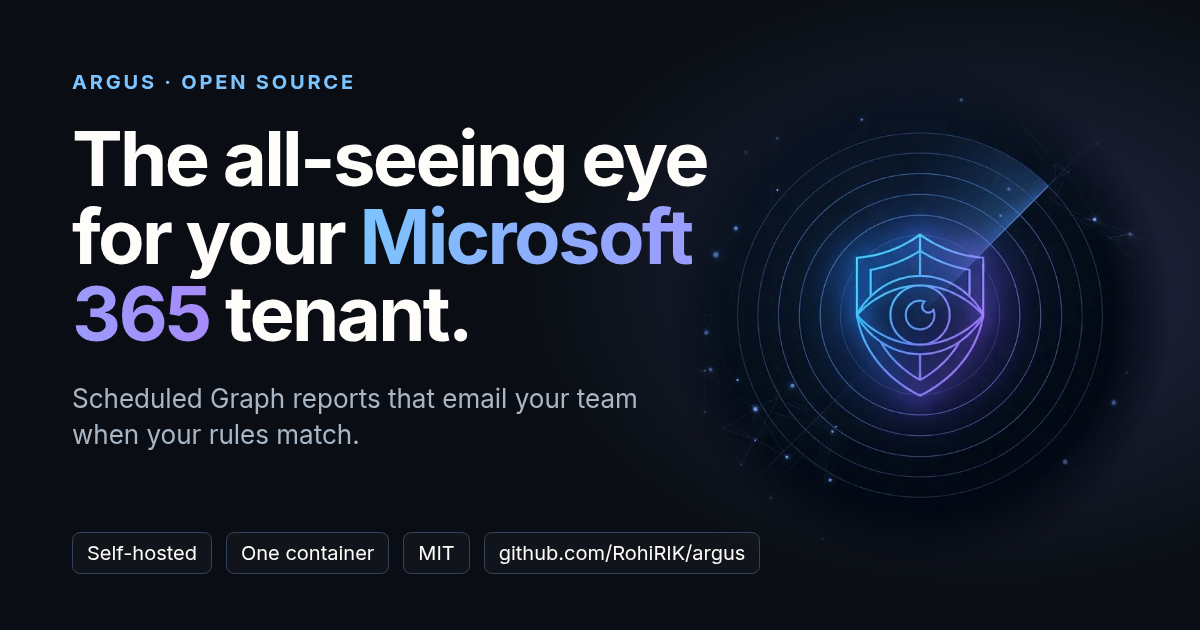
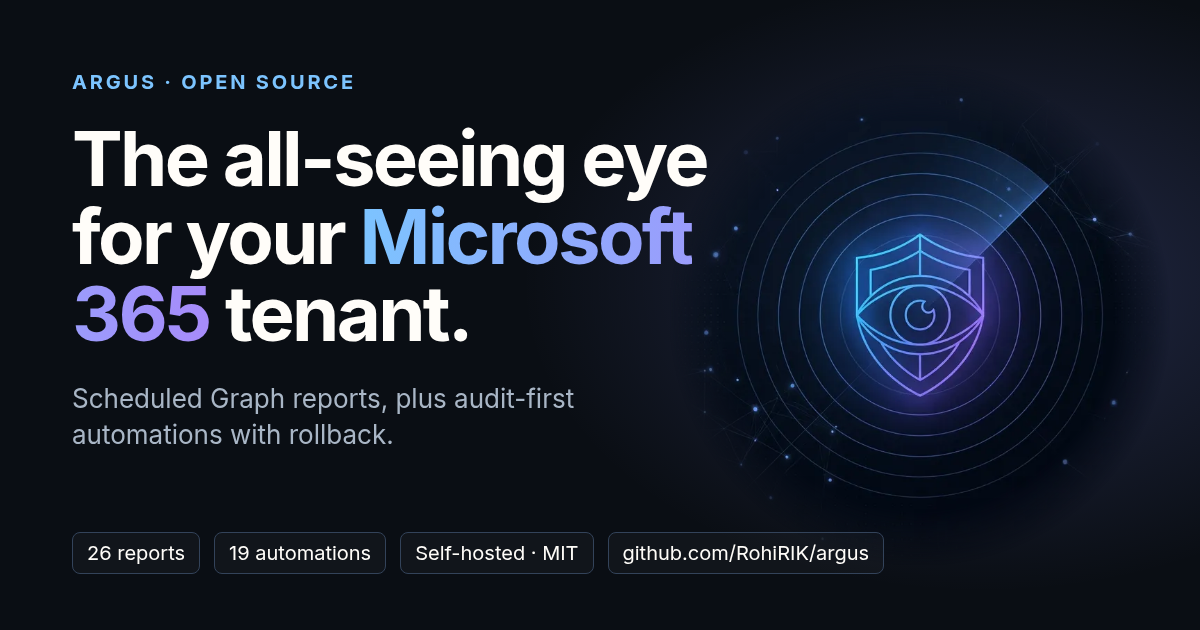
feat(site): update page to argus dev (5a35a11): automations, sign-in, HTTPS, opt-in group write
- New Automations section: Audit/Enforce/Roll back, 4 solution packs, safety guards
- Security: sign-in gate, HTTPS in container, separate write-capable automation app,
  reporting app 16 perms + opt-in Group.ReadWrite.All, automation app up to 26
- Quick start on dev channel (:dev image, https://localhost:8100), verified locally
- Fresh screenshots from dev; OG card updated

Changed region(s): [[0.0617, 0.8444, 0.74, 0.9048], [0.0617, 0.6635, 0.3083, 0.7238], [0.3083, 0.6032, 0.5242, 0.6635]]

diff --git a/index.html b/index.html
@@ -4,7 +4,7 @@
 <meta charset="utf-8">
 <meta name="viewport" content="width=device-width, initial-scale=1">
 <title>Argus: self-hosted Microsoft 365 reporting</title>
-<meta name="description" content="Scheduled Microsoft 365 reports that email your team when your rules match. Self-hosted, one Docker container, open source (MIT).">
+<meta name="description" content="Scheduled Microsoft 365 reports that email your team when your rules match, plus guarded automations that fix what they find. Self-hosted, open source (MIT).">
 <link rel="canonical" href="https://argus-m365.vercel.app/">
 <meta name="theme-color" content="#0a0e14">
 <meta name="color-scheme" content="dark">
@@ -12,14 +12,14 @@
 <meta property="og:site_name" content="Argus">
 <meta property="og:url" content="https://argus-m365.vercel.app/">
 <meta property="og:title" content="Argus: the all-seeing eye for your Microsoft 365 tenant">
-<meta property="og:description" content="Scheduled Microsoft 365 reports that email your team when your rules match. Self-hosted, one container, MIT.">
+<meta property="og:description" content="Scheduled Microsoft 365 reports and audit-first automations with rollback. Self-hosted, one container, MIT.">
 <meta property="og:image" content="https://argus-m365.vercel.app/og.png">
 <meta property="og:image:width" content="1200">
 <meta property="og:image:height" content="630">
 <meta property="og:image:alt" content="Argus: the all-seeing eye for your Microsoft 365 tenant">
 <meta name="twitter:card" content="summary_large_image">
 <meta name="twitter:title" content="Argus: the all-seeing eye for your Microsoft 365 tenant">
-<meta name="twitter:description" content="Scheduled Microsoft 365 reports that email your team when your rules match. Self-hosted, one container, MIT.">
+<meta name="twitter:description" content="Scheduled Microsoft 365 reports and audit-first automations with rollback. Self-hosted, one container, MIT.">
 <meta name="twitter:image" content="https://argus-m365.vercel.app/og.png">
 <link rel="icon" href="/favicon.svg" type="image/svg+xml">
 <link rel="preload" href="/fonts/inter-latin-400-normal.woff2" as="font" type="font/woff2" crossorigin>
@@ -41,6 +41,7 @@
     </button>
     <nav id="nav-links" class="nav-links" aria-label="Primary">
       <a href="#how">How it works</a>
+      <a href="#automations">Automations</a>
       <a href="#reports">Reports</a>
       <a href="#security">Security</a>
       <a href="#quick-start">Quick start</a>
@@ -56,7 +57,7 @@
     <div class="hero-copy">
       <p class="kicker">Open source · Self-hosted Microsoft 365 reporting</p>
       <h1>The all-seeing eye for your <span class="grad">Microsoft&nbsp;365</span> tenant.</h1>
-      <p class="lede">Argus runs scheduled Microsoft Graph reports (sign-in failures, inactive guests, expiring app secrets, license waste and more) and emails your team when your rules match. One Docker container on your own infrastructure.</p>
+      <p class="lede">Argus runs scheduled Microsoft Graph reports (sign-in failures, inactive guests, expiring app secrets, license waste and more) and emails your team when your rules match. When a report finds a problem, Argus automations can fix it: Audit first, Enforce when you say so, roll back if needed. One Docker container on your own infrastructure.</p>
       <div class="cta">
         <a class="btn btn-primary" href="https://github.com/RohiRIK/argus">
           <svg aria-hidden="true" viewBox="0 0 16 16" width="18" height="18"><path fill="currentColor" d="M8 0C3.58 0 0 3.58 0 8c0 3.54 2.29 6.530 5.47 7.590.4.07.55-.17.55-.38 0-.19-.01-.82-.01-1.49-2.01.37-2.53-.49-2.69-.94-.09-.23-.48-.94-.82-1.13-.28-.15-.68-.52-.01-.53.63-.01 1.08.58 1.23.82.72 1.21 1.87.87 2.33.66.07-.52.28-.87.51-1.07-1.78-.2-3.64-.89-3.640-3.95 0-.87.31-1.59.82-2.15-.08-.2-.36-1.02.08-2.12 0 0 .67-.21 2.2.82.64-.18 1.32-.27 2-.27.68 0 1.36.09 2 .27 1.53-1.04 2.2-.82 2.2-.82.44 1.1.16 1.92.08 2.12.51.56.82 1.27.82 2.15 0 3.07-1.87 3.75-3.65 3.95.29.25.54.73.54 1.48 0 1.07-.01 1.93-.01 2.2 0 .21.15.46.55.38A8.013 8.013 0 0016 8c0-4.42-3.58-8-8-8z"/></svg>
@@ -65,7 +66,7 @@
         <a class="btn btn-ghost" href="#quick-start">Quick start <span aria-hidden="true">→</span></a>
       </div>
       <ul class="trust" aria-label="Project facts">
-        <li>MIT licensed</li><li>One container</li><li>amd64 + arm64 images on GHCR</li><li>v0.4.0</li>
+        <li>MIT licensed</li><li>26 reports</li><li>19 automations</li><li>One container</li><li>amd64 + arm64 images</li>
       </ul>
     </div>
     <div class="hero-art">
@@ -74,9 +75,9 @@
   </div>
   <div class="wrap">
     <figure class="frame hero-shot">
-      <div class="frame-bar" aria-hidden="true"><i></i><i></i><i></i><span>localhost:8100/catalog</span></div>
-      <img src="/assets/shot-catalog-dark.webp" alt="Argus report catalog: report cards with category badges, schedule, baseline and a Read-only marker" width="1440" height="900">
-      <figcaption>Report catalog: search, filter by category and maturity, see required permissions.</figcaption>
+      <div class="frame-bar" aria-hidden="true"><i></i><i></i><i></i><span>https://localhost:8100/catalog</span></div>
+      <img src="/assets/shot-catalog.webp" alt="Argus catalog: 45 items, 26 read-only reports and 19 automations, shown as report packs and automation packs" width="1440" height="730">
+      <figcaption>One catalog: 26 read-only reports and 19 automations, grouped into solution packs.</figcaption>
     </figure>
   </div>
 </section>
@@ -97,8 +98,8 @@
       </article>
       <article class="card">
         <span class="num" aria-hidden="true">03</span>
-        <h3>Scripts don't keep history.</h3>
-        <p>Without a record of past runs you can't tell what's new, what changed, or whether last night's job ran at all.</p>
+        <h3>Fixing it is a one-off script with no undo.</h3>
+        <p>Disabling stale guests or reclaiming licences usually means a hand-run script: no dry run, no change limit, and no record of what it changed.</p>
       </article>
     </div>
   </div>
@@ -106,7 +107,7 @@
 
 <section class="section alt" id="how" aria-labelledby="how-h">
   <div class="wrap">
-    <p class="eyebrow">How it works</p>
+    <p class="eyebrow">How reports work</p>
     <h2 id="how-h" class="h2">Five stages, every run</h2>
     <p class="intro">Argus follows a Jenkins-style model: <strong>Catalog → Jobs → Executions → Logs</strong>. Each scheduled run goes through the same pipeline.</p>
     <ol class="pipeline">
@@ -119,33 +120,66 @@
   </div>
 </section>
 
-<section class="section" aria-labelledby="features-h">
+
+<section class="section" id="automations" aria-labelledby="auto-h">
+  <div class="wrap">
+    <p class="eyebrow">Automations <span class="badge-new">New</span></p>
+    <h2 id="auto-h" class="h2">Find it, then fix it, with guardrails</h2>
+    <p class="intro">19 built-in automations act on what the reports find. They run through a <strong>separate, write-capable Entra app</strong>, so the reporting app never changes your tenant.</p>
+    <ol class="modes">
+      <li class="mode"><span class="mode-k">1</span><h3>Audit</h3><p>Every new policy starts here. A read-only what-if: the engine rejects any write, and the run lists exactly what would change.</p></li>
+      <li class="mode"><span class="mode-k">2</span><h3>Enforce</h3><p>Only after a finished audit of the current settings and an explicit confirmation. <em>Max changes per run</em> halts a run that would change too much.</p></li>
+      <li class="mode"><span class="mode-k">3</span><h3>Roll back</h3><p>Each change stores its before and after state. Reversible changes undo in one click; the few that can't (Intune retire, expired-secret removal) are marked.</p></li>
+    </ol>
+    <div class="auto-shots">
+      <figure class="frame">
+        <img src="/assets/shot-automations.webp" alt="Argus catalog filtered to automations: cards with risk level, schedule, Starts in Audit and Makes changes markers" width="1440" height="900" loading="lazy" decoding="async">
+        <figcaption>Each automation shows its risk, schedule and the report it builds on.</figcaption>
+      </figure>
+      <figure class="frame">
+        <img src="/assets/shot-automation-detail.webp" alt="Automation detail: Break-Glass Conditional Access Exclusion Guardrail with its required write permissions and parameters" width="508" height="900" loading="lazy" decoding="async">
+        <figcaption>Exact Graph permissions per automation.</figcaption>
+      </figure>
+    </div>
+    <h3 class="sub-h">Solution packs</h3>
+    <div class="packs">
+      <article class="pack"><p class="pack-n">4 automations</p><h4>Zero-Trust &amp; Lockout Guardrails</h4><p>Break-glass Conditional Access exclusions, mandatory CA baseline drift, Tier-0 roles and tenant authorization hardening.</p></article>
+      <article class="pack"><p class="pack-n">4 automations</p><h4>Active Threat Containment</h4><p>Contain high-risk users and service principals, remove external mailbox forwarding and revoke risky OAuth consents.</p></article>
+      <article class="pack"><p class="pack-n">4 automations</p><h4>Lifecycle Hygiene &amp; FinOps Reclaim</h4><p>Reclaim licences from disabled and dormant users, clean up stale B2B guests and expired app secrets.</p></article>
+      <article class="pack"><p class="pack-n">6 automations</p><h4>User &amp; Device Lifecycle</h4><p>Joiner/mover group sync, leaver offboarding, inactive account disable and cleanup, stale and end-of-support devices.</p></article>
+    </div>
+    <ul class="guards" aria-label="Automation safety guards">
+      <li>Exclusion lists on every automation that touches users. Put break-glass and service accounts there.</li>
+      <li>AD-synced users and dynamic or on-prem groups are skipped, because they can't be changed from the cloud.</li>
+      <li>Changing an enforcing policy's settings sends it back to Audit. Enforce is recorded with the signed-in user.</li>
+      <li>One run per policy at a time, with the same email templates, audit trail and restart handling as reports.</li>
+    </ul>
+    <p class="note">Automations, sign-in and HTTPS are on the <code>dev</code> channel and land in <code>:latest</code> with the next release. <a href="https://github.com/RohiRIK/argus/blob/dev/docs/04-Guides/automations.md">Automations guide&nbsp;→</a></p>
+  </div>
+</section>
+
+<section class="section alt" aria-labelledby="features-h">
   <div class="wrap">
     <p class="eyebrow">Features</p>
     <h2 id="features-h" class="h2">Built for the admin who owns the tenant</h2>
     <div class="grid-3 features">
-      <article class="card"><h3>25 reports + custom Graph query</h3><p>Identity, security, infrastructure and usage reports, plus your own Graph GET query. Maturity is labelled per report.</p></article>
-      <article class="card"><h3>Send when the rule matches</h3><p>Thresholds, changes, anomalies, new items and metric deltas decide whether a run emails anyone.</p></article>
+      <article class="card"><h3>One catalog</h3><p>26 read-only reports (identity, security, infrastructure, usage, plus a custom Graph query) next to the automations, with solution packs and maturity labels.</p></article>
+      <article class="card"><h3>Send when the rule matches</h3><p>Thresholds, changes, anomalies, new items and metric deltas decide whether a run emails anyone. Maintenance windows mute runs.</p></article>
       <article class="card"><h3>Row-level history and diff</h3><p>Each run snapshots its rows, so "new items" means new identities, not just a bigger count. Per-job trend charts included.</p></article>
-      <article class="card"><h3>Guided Microsoft 365 setup</h3><p>Quick Setup uses Device Code sign-in to register the Entra ID app and generate a local RSA-2048 certificate. Advanced setup lets you do it by hand.</p></article>
-      <article class="card"><h3>Recipients from Entra ID groups</h3><p>Point a job at an Entra security group; members are resolved at send time.</p></article>
-      <article class="card"><h3>Editable templates</h3><p>HTML and plain-text templates with variable chips, sandboxed preview and version history.</p></article>
+      <article class="card"><h3>No silent failures</h3><p>Jobs that would email no one are saved paused. Interrupted runs are never re-sent. Failure alerts go out once per streak, not once per run.</p></article>
+      <article class="card"><h3>Template studio</h3><p>One shared template for every report: visual composer or highlighted HTML, live preview as any report, version history.</p></article>
+      <article class="card"><h3>Guided Microsoft 365 setup</h3><p>Device Code sign-in registers the Entra ID app with a local RSA-2048 certificate. Recipients can be Entra ID security groups or local lists.</p></article>
     </div>
 
-    <div class="shots">
-      <figure class="frame">
-        <img src="/assets/shot-templates-dark.webp" alt="Argus template editor with variable chips and a live email preview" width="1440" height="900" loading="lazy" decoding="async">
-        <figcaption>Template editor with live preview against fixture data.</figcaption>
-      </figure>
-      <figure class="frame">
-        <img src="/assets/shot-integrations-dark.webp" alt="Argus Integrations settings with the Quick Setup option to connect a Microsoft 365 tenant" width="1440" height="900" loading="lazy" decoding="async">
-        <figcaption>Quick Setup: connect a tenant with Device Code sign-in.</figcaption>
-      </figure>
-    </div>
+    <figure class="frame wide-shot">
+      <div class="frame-bar" aria-hidden="true"><i></i><i></i><i></i><span>https://localhost:8100/templates</span></div>
+      <img src="/assets/shot-templates.webp" alt="Argus template studio: HTML editor with syntax highlighting and a live email preview of the Daily Sign-in Anomalies report" width="1440" height="900" loading="lazy" decoding="async">
+      <figcaption>Template studio with live preview against fixture data.</figcaption>
+    </figure>
   </div>
 </section>
 
-<section class="section alt" id="reports" aria-labelledby="reports-h">
+<section class="section" id="reports" aria-labelledby="reports-h">
   <div class="wrap">
     <p class="eyebrow">Report catalog</p>
     <h2 id="reports-h" class="h2">What Argus can tell you</h2>
@@ -170,42 +204,49 @@
         </tbody>
       </table>
     </div>
-    <p class="note">Licences shown are Microsoft's requirements for the underlying Graph data, not Argus licences. Two alert reports (Security Alerts Digest, DLP Alerts) are still being verified, and two reports use Microsoft Graph beta endpoints. <a href="https://github.com/RohiRIK/argus/blob/main/docs/04-Guides/report-catalog.md">See the full catalog&nbsp;→</a></p>
+    <p class="note">Licences shown are Microsoft's requirements for the underlying Graph data, not Argus licences. Two alert reports (Security Alerts Digest, DLP Alerts) are still being verified, and two reports use Microsoft Graph beta endpoints. <a href="https://github.com/RohiRIK/argus/blob/dev/docs/04-Guides/report-catalog.md">See the full catalog&nbsp;→</a></p>
   </div>
 </section>
 
-<section class="section" id="security" aria-labelledby="security-h">
+<section class="section alt" id="security" aria-labelledby="security-h">
   <div class="wrap">
     <p class="eyebrow">Security</p>
     <h2 id="security-h" class="h2">Your tenant, your host, your keys</h2>
     <div class="sec-grid">
       <ul class="sec-list">
-        <li><h3>App-only Graph access.</h3><p>Scheduled runs authenticate as an Entra ID application with a locally generated X.509 certificate (RS256 client assertion) or a client secret. No user session is needed.</p></li>
-        <li><h3>Encrypted credential vault.</h3><p>Tenant, app, certificate key and mailbox settings are stored AES-256-GCM encrypted in SQLite, each value with its own IV and auth tag.</p></li>
-        <li><h3>One secret to protect.</h3><p><code>ARGUS_MASTER_KEY</code> is the only required environment variable. The installer writes it to <code>.env</code>: back it up and restrict access, because losing it makes stored credentials unrecoverable.</p></li>
-        <li><h3>Hardened container.</h3><p>Runs as a non-root user with no-new-privileges. Next.js telemetry is disabled; Argus sends nothing to its author.</p></li>
-        <li><h3>Where data goes.</h3><p>Outbound traffic goes to Microsoft Entra ID and Graph, to Exchange Online when you use automatic mailbox setup, and to webhooks you configure. Nothing else.</p></li>
+        <li><h3>Sign-in on every page.</h3><p>Every page and API route needs a signed-in user. The admin account is created on first visit (open for 30 minutes after start); passwords are argon2id hashes, five failures lock a username for 15 minutes, and sessions last 12 hours.</p></li>
+        <li><h3>HTTPS in the container.</h3><p>The image serves HTTPS on port 8100 with a self-signed certificate it generates and renews, or your own certificate. The app itself listens only on loopback inside the container.</p></li>
+        <li><h3>Read-only reports, separate write app.</h3><p>Reports use app-only Graph access with a local X.509 certificate (RS256 client assertion) or a client secret. Automations use their own Entra app, so write rights stay out of the reporting path.</p></li>
+        <li><h3>Encrypted vault, one secret.</h3><p>Credentials are stored AES-256-GCM encrypted in SQLite. <code>ARGUS_MASTER_KEY</code> is the only required variable; the installer writes it to <code>.env</code>, so back it up and restrict access.</p></li>
+        <li><h3>Hardened container, known destinations.</h3><p>Non-root with no-new-privileges, telemetry off. Outbound traffic goes to Entra ID and Graph, Exchange Online for automatic mailbox setup, and webhooks you configure.</p></li>
       </ul>
       <aside class="callout" aria-labelledby="consent-h">
         <h3 id="consent-h">Know what you consent to</h3>
-        <p>Quick Setup asks an administrator to approve the catalog's read permissions plus two non-read permissions: <code>Group.ReadWrite.All</code> (to manage recipient groups) and <code>Mail.Send</code> (to deliver reports). That consent is broader than the reports you choose to run. To create the app registration, the one-time Device Code sign-in also uses the signed-in admin's own delegated rights (application, role and group management).</p>
-        <p>Use Advanced setup to review and grant permissions yourself. Argus has no built-in sign-in yet: keep the web UI on a trusted network or behind your own access proxy.</p>
+        <p><strong>Reporting app:</strong> 15 read permissions plus <code>Mail.Send</code> to deliver reports. <code>Group.ReadWrite.All</code> is opt-in ("Manage Entra groups", off by default).</p>
+        <p><strong>Automation app:</strong> write-capable, and only if you connect it. Its permissions are built from the automations you choose (all automations, or active policies only). With all of them it includes rights such as <code>User.ReadWrite.All</code>, <code>Policy.ReadWrite.ConditionalAccess</code> and <code>RoleManagement.ReadWrite.Directory</code>.</p>
+        <p>Quick Setup's one-time Device Code sign-in uses the signed-in admin's own delegated rights to create these apps. Use Advanced setup to grant permissions yourself.</p>
         <details class="perms">
-          <summary>See all 17 application permissions</summary>
+          <summary>Reporting app: 16 permissions (+1 opt-in)</summary>
           <h4>Read (15)</h4>
           <ul class="chips">
             <li>Application.Read.All</li><li>AuditLog.Read.All</li><li>CustomSecAttributeAuditLogs.Read.All</li><li>DeviceManagementManagedDevices.Read.All</li><li>Directory.Read.All</li><li>IdentityRiskEvent.Read.All</li><li>IdentityRiskyServicePrincipal.Read.All</li><li>IdentityRiskyUser.Read.All</li><li>Organization.Read.All</li><li>Policy.Read.ConditionalAccess</li><li>Reports.Read.All</li><li>SecurityAlert.Read.All</li><li>SecurityEvents.Read.All</li><li>User.Read.All</li><li>UserAuthenticationMethod.Read.All</li>
           </ul>
-          <h4>Write / send (2)</h4>
-          <ul class="chips chips-warn"><li>Group.ReadWrite.All</li><li>Mail.Send</li></ul>
+          <h4>Send (1) and opt-in write (1)</h4>
+          <ul class="chips chips-warn"><li>Mail.Send</li><li>Group.ReadWrite.All (opt-in)</li></ul>
         </details>
-        <p class="more"><a href="https://github.com/RohiRIK/argus/blob/main/docs/01-Architecture/SECURITY.md">Security docs&nbsp;→</a></p>
+        <details class="perms">
+          <summary>Automation app: up to 26 permissions</summary>
+          <ul class="chips chips-warn">
+            <li>Application.Read.All</li><li>Application.ReadWrite.All</li><li>AuditLog.Read.All</li><li>DelegatedPermissionGrant.ReadWrite.All</li><li>Device.Read.All</li><li>Device.ReadWrite.All</li><li>DeviceManagementManagedDevices.PrivilegedOperations.All</li><li>DeviceManagementManagedDevices.Read.All</li><li>DeviceManagementManagedDevices.ReadWrite.All</li><li>Directory.Read.All</li><li>Group.Create</li><li>Group.Read.All</li><li>Group.ReadWrite.All</li><li>GroupMember.ReadWrite.All</li><li>IdentityRiskyServicePrincipal.ReadWrite.All</li><li>IdentityRiskyUser.ReadWrite.All</li><li>MailboxSettings.ReadWrite</li><li>Organization.Read.All</li><li>Policy.Read.All</li><li>Policy.ReadWrite.Authorization</li><li>Policy.ReadWrite.ConditionalAccess</li><li>RoleManagement.ReadWrite.Directory</li><li>User-LifeCycleInfo.Read.All</li><li>User.Read.All</li><li>User.ReadWrite.All</li><li>User.RevokeSessions.All</li>
+          </ul>
+        </details>
+        <p class="more"><a href="https://github.com/RohiRIK/argus/blob/dev/docs/01-Architecture/SECURITY.md">Security docs&nbsp;→</a></p>
       </aside>
     </div>
   </div>
 </section>
 
-<section class="section alt" aria-labelledby="need-h">
+<section class="section" aria-labelledby="need-h">
   <div class="wrap need">
     <div>
       <p class="eyebrow">Requirements</p>
@@ -215,22 +256,23 @@
       <li>A Microsoft 365 tenant and an admin who can consent to an Entra ID app.</li>
       <li>Docker (or Bun 1.3+ to run from source).</li>
       <li>An Exchange Online mailbox to send from.</li>
+      <li>For automations: a second, write-capable Entra app. Quick Setup can create it.</li>
       <li>Entra ID P1 for sign-in-based reports, P2 for risk reports, Intune for device compliance. Usage and license reports work on standard Microsoft 365 plans.</li>
     </ul>
   </div>
 </section>
 
-<section class="section" id="quick-start" aria-labelledby="qs-h">
+<section class="section alt" id="quick-start" aria-labelledby="qs-h">
   <div class="wrap">
     <p class="eyebrow">Quick start</p>
     <h2 id="qs-h" class="h2">Running in about a minute</h2>
     <div class="qs-grid">
       <div class="code-block">
         <div class="code-head"><span>Clone and install with Docker</span><button class="copy" type="button" data-copy="qs1">Copy</button></div>
-        <pre id="qs1"><code>git clone https://github.com/RohiRIK/argus.git
+        <pre id="qs1"><code>git clone -b dev https://github.com/RohiRIK/argus.git
 cd argus
 ./install.sh docker</code></pre>
-        <p class="code-note">Generates <code>ARGUS_MASTER_KEY</code> into <code>.env</code>, then serves on <code>http://localhost:8100</code>.</p>
+        <p class="code-note">Generates <code>ARGUS_MASTER_KEY</code> into <code>.env</code>, builds the image and serves on <code>https://localhost:8100</code>.</p>
       </div>
       <div class="code-block">
         <div class="code-head"><span>Or run the published image</span><button class="copy" type="button" data-copy="qs2">Copy</button></div>
@@ -239,35 +281,36 @@ export ARGUS_MASTER_KEY=$(openssl rand -hex 32)
 docker run -d --name argus -p 8100:8100 \
   -e ARGUS_MASTER_KEY \
   -v argus-data:/app/data \
-  ghcr.io/rohirik/argus:latest</code></pre>
+  ghcr.io/rohirik/argus:dev</code></pre>
       </div>
       <div class="code-block wide">
         <div class="code-head"><span>Or let your AI coding agent do it</span><button class="copy" type="button" data-copy="qs3">Copy</button></div>
         <pre id="qs3"><code>This repo is "Argus", a self-hosted Microsoft 365 reporting app (Bun + Next.js 16 + SQLite, single container).
 Read README.md, then run `./install.sh docker`.
 The ONLY required secret is ARGUS_MASTER_KEY; install.sh generates it into .env.
-When it's up, open http://localhost:8100 and confirm GET /api/health is healthy.</code></pre>
+When it's up, open https://localhost:8100, create the admin account, and confirm GET /api/health is healthy.</code></pre>
       </div>
     </div>
-    <p class="intro after">Then open <strong>Settings → Integrations → Quick Setup</strong> to connect your tenant. <a href="https://github.com/RohiRIK/argus/blob/main/INSTALL.md">Full install guide&nbsp;→</a></p>
+    <p class="intro after">Open <strong>https://localhost:8100</strong> (accept the self-signed certificate), create the admin account, then go to <strong>Settings → Integrations → Quick Setup</strong> to connect your tenant. The <code>:latest</code> image and <code>main</code> branch hold the previous release without automations. <a href="https://github.com/RohiRIK/argus/blob/dev/INSTALL.md">Full install guide&nbsp;→</a></p>
     <p class="sr-only" id="copy-live" aria-live="polite"></p>
   </div>
 </section>
 
-<section class="section alt" id="faq" aria-labelledby="faq-h">
+<section class="section" id="faq" aria-labelledby="faq-h">
   <div class="wrap faq-wrap">
     <div>
       <p class="eyebrow">FAQ</p>
       <h2 id="faq-h" class="h2">Questions admins ask</h2>
     </div>
     <div class="faq">
-      <details><summary>Is Argus a SaaS?</summary><p>No. You run it yourself. The UI, scheduler, SQLite database and worker live in one container on your infrastructure.</p></details>
+      <details><summary>Is Argus a SaaS?</summary><p>No. You run it yourself. The UI, scheduler, SQLite database and worker live in one container on your infrastructure, behind its own sign-in.</p></details>
       <details><summary>What does it cost?</summary><p>Nothing. Argus is MIT licensed. Some reports need Microsoft licences (Entra ID P1/P2, Intune) for the underlying data.</p></details>
-      <details><summary>What permissions does it ask for?</summary><p>15 read permissions for the report catalog, plus <code>Group.ReadWrite.All</code> for recipient groups and <code>Mail.Send</code> for delivery. The full list is in the <a href="#security">Security section</a>, and Advanced setup lets you grant them yourself.</p></details>
+      <details><summary>Can Argus change my tenant?</summary><p>Reports never do. Changes come only from automations you set up, through a separate write-capable app. Every policy starts in Audit, Enforce needs an explicit confirmation, and reversible changes can be rolled back.</p></details>
+      <details><summary>What permissions does it ask for?</summary><p>The reporting app asks for 15 read permissions plus <code>Mail.Send</code>; <code>Group.ReadWrite.All</code> is opt-in. The automation app asks only for what your chosen automations need. Both lists are in the <a href="#security">Security section</a>.</p></details>
       <details><summary>Does it email on every run?</summary><p>Only if you want it to. Each job has a rule (always, threshold, change, anomaly, new items or metric delta), and maintenance windows mute runs.</p></details>
       <details><summary>Where is my data stored?</summary><p>In a SQLite database in the container's data volume. Integration credentials are encrypted with AES-256-GCM; report data stays on your host apart from the emails and webhooks you configure.</p></details>
       <details><summary>Can I monitor several tenants?</summary><p>One Argus instance connects to one tenant. Run one instance per tenant.</p></details>
-      <details><summary>Can I write my own reports?</summary><p>Yes. Use the Custom Graph Query report, or add a report plugin (see the repository).</p></details>
+      <details><summary>Can I write my own reports or automations?</summary><p>Yes. Use the Custom Graph Query report, or scaffold a plugin with <code>bun run plugin:new &lt;id&gt; --kind=automation</code>. Reports, automations and templates share one plugin contract that CI validates.</p></details>
     </div>
   </div>
 </section>

diff --git a/css/site.css b/css/site.css
@@ -110,7 +110,6 @@ h1 { font-size: clamp(40px, 6.2vw, 76px); letter-spacing: -0.035em; line-height:
 .pipeline p { color: var(--muted); font-size: 15px; }
 .pipeline li:not(:last-child)::after { content: "→"; position: absolute; right: -9px; top: 30px; z-index: 1; color: var(--gunmetal); background: var(--panel); font-size: 14px; line-height: 1; padding: 2px 0; }
 
-.shots { display: grid; grid-template-columns: repeat(2, minmax(0, 1fr)); gap: 20px; margin-top: 48px; }
 
 /* Reports table */
 .table-wrap { margin-top: 40px; border: 1px solid var(--line); border-radius: var(--radius); overflow-x: auto; background: var(--panel); }
@@ -145,7 +144,7 @@ h1 { font-size: clamp(40px, 6.2vw, 76px); letter-spacing: -0.035em; line-height:
 .perms summary { cursor: pointer; font-weight: 700; color: var(--bone); font-size: 15px; }
 .perms h4 { font-size: 12px; text-transform: uppercase; letter-spacing: .1em; color: var(--muted); margin: 16px 0 8px; }
 .chips { list-style: none; padding: 0; margin: 0; display: flex; flex-wrap: wrap; gap: 6px; }
-.chips li { font-family: var(--mono); font-size: 12px; padding: 4px 8px; border: 1px solid var(--line-2); border-radius: 5px; color: #d8e6f5; background: rgba(0,0,0,.25); }
+.chips li { max-width: 100%; overflow-wrap: anywhere; font-family: var(--mono); font-size: 12px; padding: 4px 8px; border: 1px solid var(--line-2); border-radius: 5px; color: #d8e6f5; background: rgba(0,0,0,.25); }
 .chips-warn li { border-color: rgba(245,194,107,.6); color: var(--amber); }
 
 /* Requirements */
@@ -189,6 +188,31 @@ pre code { background: none; border: 0; padding: 0; font-size: inherit; word-bre
 .footer a { color: var(--bone); }
 .fine { font-size: 13px; opacity: .8; }
 
+/* Automations */
+.badge-new { display: inline-block; margin-left: 8px; padding: 2px 8px; border-radius: 999px; background: linear-gradient(90deg, var(--blue), var(--violet)); color: var(--ink); font-size: 11px; letter-spacing: .08em; vertical-align: 1px; }
+.modes { list-style: none; padding: 0; margin: 48px 0 0; display: grid; grid-template-columns: repeat(3, minmax(0, 1fr)); gap: 20px; counter-reset: none; }
+.mode { position: relative; border: 1px solid var(--line); border-radius: var(--radius); background: var(--panel); padding: 28px; }
+.mode:nth-child(1) { border-top: 2px solid var(--blue); }
+.mode:nth-child(2) { border-top: 2px solid var(--amber); }
+.mode:nth-child(3) { border-top: 2px solid #86efac; }
+.mode-k { font-family: var(--mono); font-size: 13px; color: var(--muted); }
+.mode h3 { font-size: 22px; margin: 10px 0 10px; }
+.mode p { color: var(--muted); font-size: 16px; }
+.mode em { color: var(--bone); font-style: normal; font-weight: 700; }
+.auto-shots { display: grid; grid-template-columns: minmax(0, 2.6fr) minmax(0, 1fr); gap: 20px; margin-top: 48px; align-items: start; }
+.sub-h { font-size: 22px; margin: 64px 0 0; }
+.packs { display: grid; grid-template-columns: repeat(4, minmax(0, 1fr)); gap: 16px; margin-top: 20px; }
+.pack { border: 1px solid var(--line); border-radius: var(--radius); padding: 22px; background: linear-gradient(180deg, rgba(167,139,250,.06), transparent 60%), var(--panel); }
+.pack-n { font-family: var(--mono); font-size: 12px; color: var(--violet); margin-bottom: 10px; }
+.pack h4 { font-size: 17px; margin-bottom: 8px; line-height: 1.25; }
+.pack p:last-child { color: var(--muted); font-size: 15px; }
+.guards { list-style: none; padding: 0; margin: 32px 0 0; display: grid; grid-template-columns: repeat(2, minmax(0, 1fr)); gap: 12px 32px; }
+.guards li { position: relative; padding-left: 28px; color: var(--muted); font-size: 15.5px; }
+.guards li::before { content: ""; position: absolute; left: 0; top: 6px; width: 14px; height: 14px; border-radius: 4px; border: 1px solid #86efac; background: rgba(134,239,172,.12); }
+.wide-shot { margin-top: 48px; }
+.callout strong { color: var(--bone); }
+.callout details + details { margin-top: 0; }
+
 /* Responsive */
 @media (max-width: 1024px) {
   .pipeline { grid-template-columns: 1fr; }
@@ -196,13 +220,16 @@ pre code { background: none; border: 0; padding: 0; font-size: inherit; word-bre
   .pipeline li:last-child { border-bottom: 0; }
   .pipeline .step { grid-row: span 2; margin: 0; }
   .pipeline li:not(:last-child)::after { content: none; }
-  .sec-grid, .need, .faq-wrap { grid-template-columns: 1fr; }
+  .sec-grid, .need, .faq-wrap { grid-template-columns: minmax(0, 1fr); }
+  .packs { grid-template-columns: repeat(2, minmax(0, 1fr)); }
+  .modes { grid-template-columns: 1fr; }
 }
 @media (max-width: 860px) {
   .hero-grid { grid-template-columns: 1fr; }
   .hero-art { order: -1; }
   .hero-art img { max-width: 200px; margin: 0; }
-  .grid-3, .shots, .qs-grid { grid-template-columns: 1fr; }
+  .grid-3, .qs-grid, .auto-shots, .guards { grid-template-columns: 1fr; }
+  .auto-shots .frame:last-child { max-width: 360px; }
   .nav-toggle { display: block; }
   .nav-links { display: none; position: absolute; top: 64px; left: 0; right: 0; flex-direction: column; align-items: stretch; gap: 0; background: var(--ink); border-bottom: 1px solid var(--line); padding: 8px 24px 20px; }
   .nav-links.open { display: flex; }
@@ -215,7 +242,8 @@ pre code { background: none; border: 0; padding: 0; font-size: inherit; word-bre
   .hero { padding-top: 40px; }
   .hero-shot { margin-top: 40px; }
   .section { padding: 72px 0; }
-  .card, .callout { padding: 22px; }
+  .card, .callout, .mode { padding: 22px; }
+  .packs { grid-template-columns: 1fr; }
   .cta .btn { flex: 1 1 100%; justify-content: center; }
   .frame-bar span { display: none; }
   .final { padding: 80px 0; }

diff --git a/tools/og.html b/tools/og.html
@@ -15,6 +15,6 @@ p{color:#a9b6c6;font-size:26px;line-height:1.4;margin:28px 0 0;width:600px}
 <img class="art" src="../assets/hero.webp">
 <div class="c"><div class="k">Argus · open source</div>
 <h1>The all-seeing eye for your <span class="g">Microsoft 365</span> tenant.</h1>
-<p>Scheduled Graph reports that email your team when your rules match.</p></div>
-<div class="f"><span>Self-hosted</span><span>One container</span><span>MIT</span><span>github.com/RohiRIK/argus</span></div>
+<p>Scheduled Graph reports, plus audit-first automations with rollback.</p></div>
+<div class="f"><span>26 reports</span><span>19 automations</span><span>Self-hosted · MIT</span><span>github.com/RohiRIK/argus</span></div>
 </body></html>

diff --git a/README.md b/README.md
@@ -5,7 +5,7 @@ This orphan branch contains only the site, no application code.
 
 - Plain HTML, CSS and a small JS file. No build step, no framework, no third-party requests.
 - Deployed on Vercel from this branch. Security headers and caching live in `vercel.json`.
-- Screenshots in `assets/` come from a local Argus v0.4.0 run with seed data (no tenant data).
+- Screenshots in `assets/` come from a local run of the argus `dev` branch (5a35a11) with seed data and a throwaway local admin (no tenant data). Page claims track `dev`.
 - Fonts: Inter (SIL OFL 1.1, see `fonts/OFL-LICENSE.txt`), self-hosted.
 
 ## Preview locally
